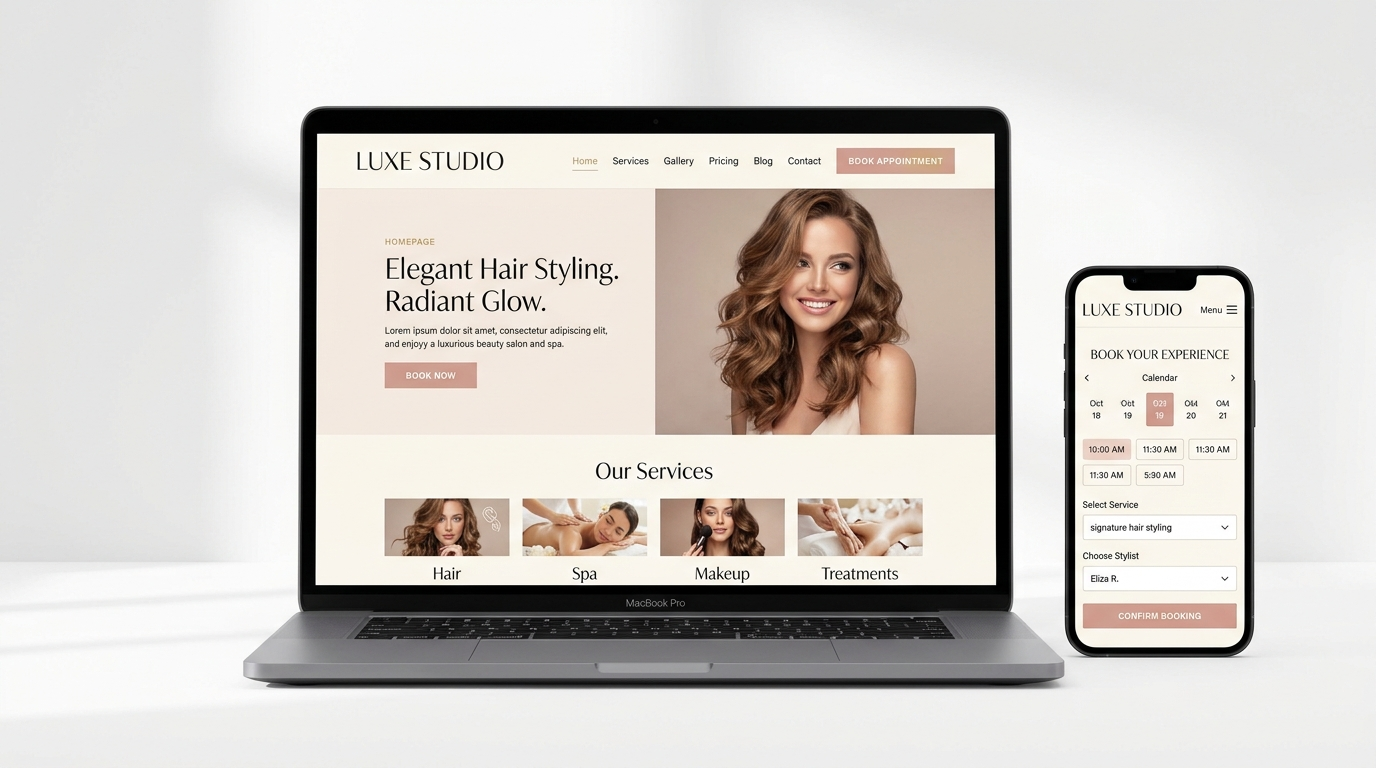
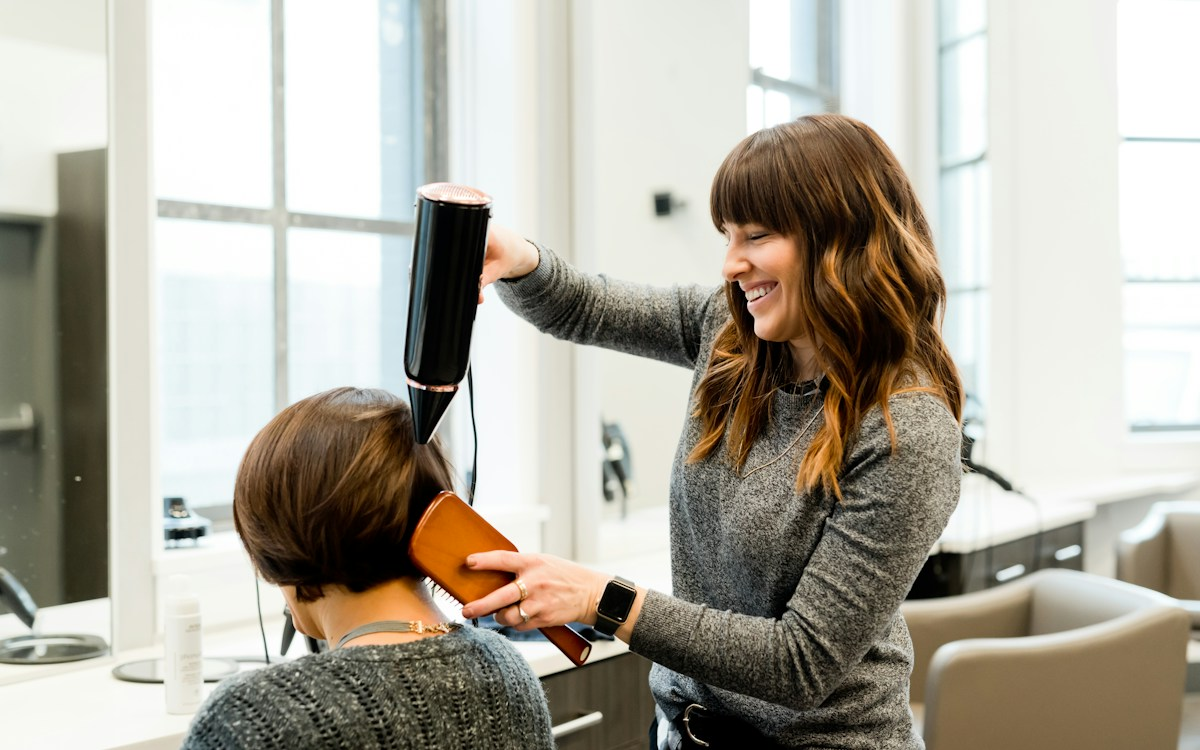
feat: update template images for restaurant, salon, and doctor clinic to real high-res photography

diff --git a/src/data/vcardTemplates.ts b/src/data/vcardTemplates.ts
@@ -52,7 +52,7 @@ export const VCARD_TEMPLATES_CATALOG: VCardTemplateItem[] = [
     "category": "Food Business",
     "subCategory": "Fine Dining & Cafes",
     "actionSubtitle": "Table Booking & Menu",
-    "imgUrl": "https://images.unsplash.com/photo-1517248135467-4c7edcad34c4?auto=format&fit=crop&w=800&h=1000&q=85",
+    "imgUrl": "/landing/template_restaurant.png",
     "badge": "Popular",
     "tagline": "Visual photo food menu, 1-tap table reservations & chef specials",
     "features": [
@@ -69,7 +69,7 @@ export const VCARD_TEMPLATES_CATALOG: VCardTemplateItem[] = [
     "category": "Beauty & Personal Care",
     "subCategory": "Hair & Beauty Salons",
     "actionSubtitle": "Salon Services & Spa",
-    "imgUrl": "https://images.unsplash.com/photo-1560066984-138dadb4c035?auto=format&fit=crop&w=800&h=1000&q=85",
+    "imgUrl": "/landing/template_salon.png",
     "badge": "Luxury Salon",
     "tagline": "Bridal styling, hair care, spa treatments & instant stylist bookings",
     "features": [
@@ -171,7 +171,7 @@ export const VCARD_TEMPLATES_CATALOG: VCardTemplateItem[] = [
     "category": "Healthcare",
     "subCategory": "Doctors & Clinics",
     "actionSubtitle": "Consultation Desk",
-    "imgUrl": "https://images.unsplash.com/photo-1622253692010-333f2da6031d?auto=format&fit=crop&w=800&h=1000&q=85",
+    "imgUrl": "/landing/template_hospital.png",
     "badge": "Verified Doctor",
     "tagline": "OPD timings, clinic address navigation, credentials & instant booking",
     "features": [
@@ -310,7 +310,7 @@ export const EXTENDED_VCARD_TEMPLATES: VCardTemplateItem[] = [
     "category": "Food Business",
     "subCategory": "Restaurants & Lounges",
     "actionSubtitle": "Digital Food Menu",
-    "imgUrl": "https://images.unsplash.com/flagged/photo-1561350117-501b4661f8d4?auto=format&fit=crop&w=800&h=1000&q=85",
+    "imgUrl": "/landing/template_restaurant.png",
     "badge": "Best Seller",
     "tagline": "Hyderabadi dum biryanis, tandoor starters, rooftop cocktails & dessert menu",
     "features": [
@@ -433,7 +433,7 @@ export const EXTENDED_VCARD_TEMPLATES: VCardTemplateItem[] = [
     "category": "Beauty & Personal Care",
     "subCategory": "Salons",
     "actionSubtitle": "Top Rated Salons",
-    "imgUrl": "https://images.unsplash.com/photo-1600685890506-593fdf55949b?auto=format&fit=crop&w=800&h=1000&q=85",
+    "imgUrl": "/landing/template_salon.png",
     "badge": "Hot",
     "tagline": "Unisex hair styling, keratin, spa & grooming",
     "features": [
@@ -467,7 +467,7 @@ export const EXTENDED_VCARD_TEMPLATES: VCardTemplateItem[] = [
     "category": "Healthcare",
     "subCategory": "Doctors",
     "actionSubtitle": "Book Now",
-    "imgUrl": "https://images.unsplash.com/photo-1612349317150-e413f6a5b16d?auto=format&fit=crop&w=800&h=1000&q=85",
+    "imgUrl": "/landing/template_hospital.png",
     "badge": "Verified",
     "tagline": "Physicians, pediatricians, cardiologists & surgeons",
     "features": [
